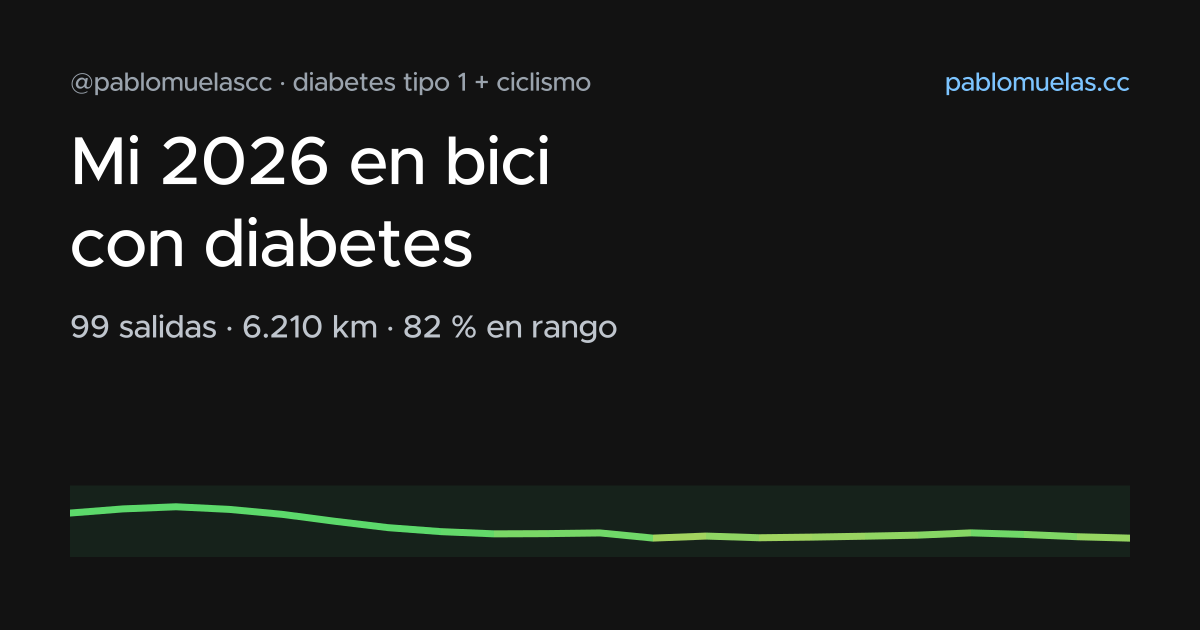
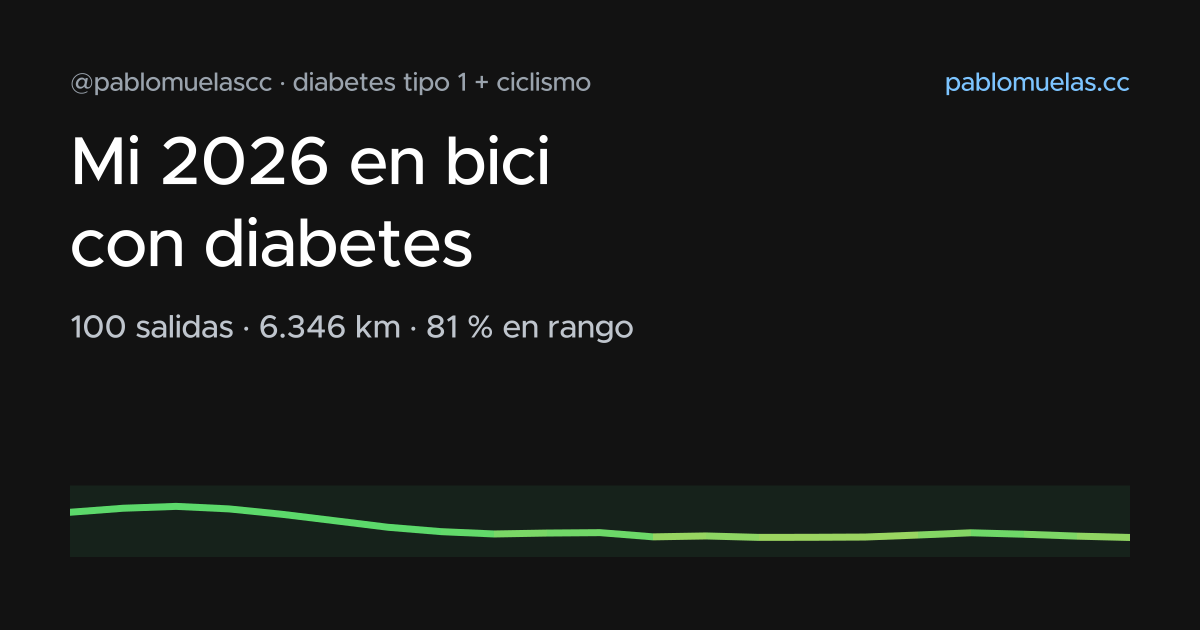
Portada: última salida y páginas (28/11/2026 13:56)

diff --git a/index.html b/index.html
@@ -217,10 +217,10 @@
 <div class="dl"><div class="k"><span class="pt"></span>En directo · rodando ahora</div><div class="v" style="color:#ffc94f">84 ↘ <small>mg/dL</small></div><div class="s">hace 4 min · llevo 0 h 02 min en bici</div><div class="av">Mi glucosa en directo: si ves que sube o baja mucho, ¡avisa a alguien! 😅</div></div>
 <!-- /auto:directo -->
 <!-- auto:ultima -->
-<div class="ul"><div class="k">Mi última salida</div><h2>Domingo 22 de noviembre</h2><div class="n"><b>77,1</b> km · <b>1.393</b> m · <b>3 h 20 min</b> · <span class="pill" style="background:#4ade80">100 % en rango</span> · media <b>129</b> mg/dL</div><svg class="ul-curva" viewBox="0 0 340 96" role="img" aria-label="Glucosa durante la salida"><rect x="4" y="35.4" width="332" height="46.2" fill="#4ade80" fill-opacity=".10"/><line x1="6.7" y1="46.7" x2="14.3" y2="39.2" stroke="#67d47a" stroke-width="3" stroke-linecap="round"/><line x1="14.3" y1="39.2" x2="22.1" y2="35.8" stroke="#a8b5d3" stroke-width="3" stroke-linecap="round"/><line x1="22.1" y1="35.8" x2="29.9" y2="39.6" stroke="#c4a7fa" stroke-width="3" stroke-linecap="round"/><line x1="29.9" y1="39.6" x2="37.5" y2="43.8" stroke="#a4b6ce" stroke-width="3" stroke-linecap="round"/><line x1="37.5" y1="43.8" x2="45.2" y2="45.5" stroke="#80c89c" stroke-width="3" stroke-linecap="round"/><line x1="45.2" y1="45.5" x2="52.8" y2="48.4" stroke="#72cf89" stroke-width="3" stroke-linecap="round"/><line x1="52.8" y1="48.4" x2="60.6" y2="51.8" stroke="#5cd96b" stroke-width="3" stroke-linecap="round"/><line x1="60.6" y1="51.8" x2="68.4" y2="55.1" stroke="#5cd96b" stroke-width="3" stroke-linecap="round"/><line x1="68.4" y1="55.1" x2="76.0" y2="58.9" stroke="#5cd96b" stroke-width="3" stroke-linecap="round"/><line x1="76.0" y1="58.9" x2="83.6" y2="60.6" stroke="#5cd96b" stroke-width="3" stroke-linecap="round"/><line x1="83.6" y1="60.6" x2="91.3" y2="63.1" stroke="#5cd96b" stroke-width="3" stroke-linecap="round"/><line x1="91.3" y1="63.1" x2="99.1" y2="66.1" stroke="#5cd96b" stroke-width="3" stroke-linecap="round"/><line x1="99.1" y1="66.1" x2="106.7" y2="69.4" stroke="#70d868" stroke-width="3" stroke-linecap="round"/><line x1="106.7" y1="69.4" x2="114.5" y2="71.9" stroke="#a4d45f" stroke-width="3" stroke-linecap="round"/><line x1="114.5" y1="71.9" x2="123.7" y2="71.9" stroke="#cbd159" stroke-width="3" stroke-linecap="round"/><line x1="123.7" y1="71.9" x2="131.4" y2="69.0" stroke="#cbd159" stroke-width="3" stroke-linecap="round"/><line x1="131.4" y1="69.0" x2="139.1" y2="63.5" stroke="#9dd460" stroke-width="3" stroke-linecap="round"/><line x1="139.1" y1="63.5" x2="146.7" y2="59.8" stroke="#5cd96b" stroke-width="3" stroke-linecap="round"/><line x1="146.7" y1="59.8" x2="154.5" y2="59.3" stroke="#5cd96b" stroke-width="3" stroke-linecap="round"/><line x1="154.5" y1="59.3" x2="162.1" y2="61.0" stroke="#5cd96b" stroke-width="3" stroke-linecap="round"/><line x1="162.1" y1="61.0" x2="169.8" y2="56.4" stroke="#5cd96b" stroke-width="3" stroke-linecap="round"/><line x1="169.8" y1="56.4" x2="177.5" y2="53.9" stroke="#5cd96b" stroke-width="3" stroke-linecap="round"/><line x1="177.5" y1="53.9" x2="185.2" y2="52.6" stroke="#5cd96b" stroke-width="3" stroke-linecap="round"/><line x1="185.2" y1="52.6" x2="192.8" y2="51.4" stroke="#5cd96b" stroke-width="3" stroke-linecap="round"/><line x1="192.8" y1="51.4" x2="200.7" y2="52.6" stroke="#5cd96b" stroke-width="3" stroke-linecap="round"/><line x1="200.7" y1="52.6" x2="208.3" y2="54.7" stroke="#5cd96b" stroke-width="3" stroke-linecap="round"/><line x1="208.3" y1="54.7" x2="216.0" y2="56.8" stroke="#5cd96b" stroke-width="3" stroke-linecap="round"/><line x1="216.0" y1="56.8" x2="223.7" y2="60.2" stroke="#5cd96b" stroke-width="3" stroke-linecap="round"/><line x1="223.7" y1="60.2" x2="231.3" y2="63.1" stroke="#5cd96b" stroke-width="3" stroke-linecap="round"/><line x1="231.3" y1="63.1" x2="240.6" y2="63.5" stroke="#5cd96b" stroke-width="3" stroke-linecap="round"/><line x1="240.6" y1="63.5" x2="248.4" y2="64.4" stroke="#5cd96b" stroke-width="3" stroke-linecap="round"/><line x1="248.4" y1="64.4" x2="256.0" y2="63.1" stroke="#5cd96b" stroke-width="3" stroke-linecap="round"/><line x1="256.0" y1="63.1" x2="263.7" y2="58.1" stroke="#5cd96b" stroke-width="3" stroke-linecap="round"/><line x1="263.7" y1="58.1" x2="271.3" y2="54.7" stroke="#5cd96b" stroke-width="3" stroke-linecap="round"/><line x1="271.3" y1="54.7" x2="279.1" y2="53.0" stroke="#5cd96b" stroke-width="3" stroke-linecap="round"/><line x1="279.1" y1="53.0" x2="286.7" y2="51.8" stroke="#5cd96b" stroke-width="3" stroke-linecap="round"/><line x1="286.7" y1="51.8" x2="294.5" y2="49.3" stroke="#5cd96b" stroke-width="3" stroke-linecap="round"/><line x1="294.5" y1="49.3" x2="302.1" y2="49.7" stroke="#5cd96b" stroke-width="3" stroke-linecap="round"/><line x1="302.1" y1="49.7" x2="309.8" y2="56.4" stroke="#5cd96b" stroke-width="3" stroke-linecap="round"/><line x1="309.8" y1="56.4" x2="317.6" y2="60.2" stroke="#5cd96b" stroke-width="3" stroke-linecap="round"/><line x1="317.6" y1="60.2" x2="325.2" y2="63.5" stroke="#5cd96b" stroke-width="3" stroke-linecap="round"/><line x1="325.2" y1="63.5" x2="336.0" y2="69.4" stroke="#5cd96b" stroke-width="3" stroke-linecap="round"/></svg><div class="ls"><a href="https://www.strava.com/activities/21082247567" target="_blank" rel="noopener">Ver en Strava ↗</a><a href="2026/">Todo mi 2026 →</a></div></div>
+<div class="ul"><div class="k">Mi última salida</div><h2>Sábado 28 de noviembre</h2><div class="n"><b>135,6</b> km · <b>650</b> m · <b>4 h 37 min</b> · <span class="pill" style="background:#f0b429">74 % en rango</span> · media <b>150</b> mg/dL</div><svg class="ul-curva" viewBox="0 0 340 96" role="img" aria-label="Glucosa durante la salida"><rect x="4" y="35.4" width="332" height="46.2" fill="#4ade80" fill-opacity=".10"/><line x1="6.1" y1="32.9" x2="13.0" y2="17.3" stroke="#c399fe" stroke-width="3" stroke-linecap="round"/><line x1="13.0" y1="17.3" x2="19.9" y2="23.2" stroke="#a551f4" stroke-width="3" stroke-linecap="round"/><line x1="19.9" y1="23.2" x2="25.6" y2="15.2" stroke="#b16bf9" stroke-width="3" stroke-linecap="round"/><line x1="25.6" y1="15.2" x2="31.3" y2="13.6" stroke="#a04bef" stroke-width="3" stroke-linecap="round"/><line x1="31.3" y1="13.6" x2="37.1" y2="10.2" stroke="#9b46eb" stroke-width="3" stroke-linecap="round"/><line x1="37.1" y1="10.2" x2="42.9" y2="11.5" stroke="#933ce2" stroke-width="3" stroke-linecap="round"/><line x1="42.9" y1="11.5" x2="48.6" y2="12.7" stroke="#963fe6" stroke-width="3" stroke-linecap="round"/><line x1="48.6" y1="12.7" x2="54.3" y2="13.1" stroke="#9943e9" stroke-width="3" stroke-linecap="round"/><line x1="54.3" y1="13.1" x2="60.0" y2="13.6" stroke="#9a44ea" stroke-width="3" stroke-linecap="round"/><line x1="60.0" y1="13.6" x2="65.9" y2="15.2" stroke="#9b46eb" stroke-width="3" stroke-linecap="round"/><line x1="65.9" y1="15.2" x2="71.6" y2="19.0" stroke="#a04bef" stroke-width="3" stroke-linecap="round"/><line x1="71.6" y1="19.0" x2="77.3" y2="20.7" stroke="#a957f7" stroke-width="3" stroke-linecap="round"/><line x1="77.3" y1="20.7" x2="83.1" y2="30.4" stroke="#ac5ff8" stroke-width="3" stroke-linecap="round"/><line x1="83.1" y1="30.4" x2="88.9" y2="35.8" stroke="#be8dfd" stroke-width="3" stroke-linecap="round"/><line x1="88.9" y1="35.8" x2="94.6" y2="38.8" stroke="#c4a7fa" stroke-width="3" stroke-linecap="round"/><line x1="94.6" y1="38.8" x2="100.3" y2="44.2" stroke="#abb3d8" stroke-width="3" stroke-linecap="round"/><line x1="100.3" y1="44.2" x2="106.1" y2="48.4" stroke="#7cc997" stroke-width="3" stroke-linecap="round"/><line x1="106.1" y1="48.4" x2="111.8" y2="54.3" stroke="#5cd96b" stroke-width="3" stroke-linecap="round"/><line x1="111.8" y1="54.3" x2="118.8" y2="64.4" stroke="#5cd96b" stroke-width="3" stroke-linecap="round"/><line x1="118.8" y1="64.4" x2="124.4" y2="67.7" stroke="#5cd96b" stroke-width="3" stroke-linecap="round"/><line x1="124.4" y1="67.7" x2="130.1" y2="68.2" stroke="#8ad663" stroke-width="3" stroke-linecap="round"/><line x1="130.1" y1="68.2" x2="137.1" y2="68.2" stroke="#90d562" stroke-width="3" stroke-linecap="round"/><line x1="137.1" y1="68.2" x2="142.8" y2="68.2" stroke="#90d562" stroke-width="3" stroke-linecap="round"/><line x1="142.8" y1="68.2" x2="148.7" y2="65.6" stroke="#90d562" stroke-width="3" stroke-linecap="round"/><line x1="148.7" y1="65.6" x2="154.4" y2="64.0" stroke="#69d869" stroke-width="3" stroke-linecap="round"/><line x1="154.4" y1="64.0" x2="160.1" y2="64.8" stroke="#5cd96b" stroke-width="3" stroke-linecap="round"/><line x1="160.1" y1="64.8" x2="167.1" y2="60.2" stroke="#5cd96b" stroke-width="3" stroke-linecap="round"/><line x1="167.1" y1="60.2" x2="172.7" y2="56.0" stroke="#5cd96b" stroke-width="3" stroke-linecap="round"/><line x1="172.7" y1="56.0" x2="183.1" y2="48.4" stroke="#5cd96b" stroke-width="3" stroke-linecap="round"/><line x1="183.1" y1="48.4" x2="188.8" y2="43.8" stroke="#5cd96b" stroke-width="3" stroke-linecap="round"/><line x1="188.8" y1="43.8" x2="196.9" y2="47.6" stroke="#80c89c" stroke-width="3" stroke-linecap="round"/><line x1="196.9" y1="47.6" x2="203.8" y2="45.5" stroke="#60d770" stroke-width="3" stroke-linecap="round"/><line x1="203.8" y1="45.5" x2="210.8" y2="49.3" stroke="#72cf89" stroke-width="3" stroke-linecap="round"/><line x1="210.8" y1="49.3" x2="219.9" y2="56.8" stroke="#5cd96b" stroke-width="3" stroke-linecap="round"/><line x1="219.9" y1="56.8" x2="225.6" y2="64.0" stroke="#5cd96b" stroke-width="3" stroke-linecap="round"/><line x1="225.6" y1="64.0" x2="231.4" y2="66.9" stroke="#5cd96b" stroke-width="3" stroke-linecap="round"/><line x1="231.4" y1="66.9" x2="238.3" y2="71.5" stroke="#7dd766" stroke-width="3" stroke-linecap="round"/><line x1="238.3" y1="71.5" x2="244.1" y2="71.1" stroke="#c4d15a" stroke-width="3" stroke-linecap="round"/><line x1="244.1" y1="71.1" x2="249.8" y2="71.1" stroke="#bed25b" stroke-width="3" stroke-linecap="round"/><line x1="249.8" y1="71.1" x2="255.5" y2="71.9" stroke="#bed25b" stroke-width="3" stroke-linecap="round"/><line x1="255.5" y1="71.9" x2="261.3" y2="67.3" stroke="#cbd159" stroke-width="3" stroke-linecap="round"/><line x1="261.3" y1="67.3" x2="267.0" y2="61.4" stroke="#83d665" stroke-width="3" stroke-linecap="round"/><line x1="267.0" y1="61.4" x2="272.8" y2="57.7" stroke="#5cd96b" stroke-width="3" stroke-linecap="round"/><line x1="272.8" y1="57.7" x2="278.5" y2="54.7" stroke="#5cd96b" stroke-width="3" stroke-linecap="round"/><line x1="278.5" y1="54.7" x2="284.3" y2="53.0" stroke="#5cd96b" stroke-width="3" stroke-linecap="round"/><line x1="284.3" y1="53.0" x2="290.0" y2="51.8" stroke="#5cd96b" stroke-width="3" stroke-linecap="round"/><line x1="290.0" y1="51.8" x2="295.7" y2="50.9" stroke="#5cd96b" stroke-width="3" stroke-linecap="round"/><line x1="295.7" y1="50.9" x2="301.5" y2="51.4" stroke="#5cd96b" stroke-width="3" stroke-linecap="round"/><line x1="301.5" y1="51.4" x2="307.3" y2="53.5" stroke="#5cd96b" stroke-width="3" stroke-linecap="round"/><line x1="307.3" y1="53.5" x2="313.0" y2="55.6" stroke="#5cd96b" stroke-width="3" stroke-linecap="round"/><line x1="313.0" y1="55.6" x2="318.7" y2="58.1" stroke="#5cd96b" stroke-width="3" stroke-linecap="round"/><line x1="318.7" y1="58.1" x2="324.4" y2="61.9" stroke="#5cd96b" stroke-width="3" stroke-linecap="round"/><line x1="324.4" y1="61.9" x2="330.3" y2="64.4" stroke="#5cd96b" stroke-width="3" stroke-linecap="round"/><line x1="330.3" y1="64.4" x2="336.0" y2="66.5" stroke="#5cd96b" stroke-width="3" stroke-linecap="round"/></svg><div class="ls"><a href="https://www.strava.com/activities/21153486307" target="_blank" rel="noopener">Ver en Strava ↗</a><a href="2026/">Todo mi 2026 →</a></div></div>
 <!-- /auto:ultima -->
 <!-- auto:paginas -->
-<p class="sec">Mis páginas</p><div class="pags"><a class="pag" href="2026/" style="--c:#3b82f6"><img src="img/pag-todo.jpg" alt="" loading="lazy"><div><b>Mi 2026 en bici</b><span>Todas mis salidas con mi glucosa: mapa por mes y récords</span><em>99 salidas · 6.210 km · 82 % en rango</em></div><strong>Ver mis salidas →</strong></a><a class="pag" href="glucosa-gps/" style="--c:#1f9d55"><img src="img/pag-gps.jpg" alt="" loading="lazy"><div><b>¿Cómo veo mi glucosa en el GPS o en el reloj?</b><span>Elige tu sensor y tu equipo y te digo cómo</span><em>Garmin, Karoo, Wahoo, Apple Watch, Amazfit…</em></div><strong>Buscar mi GPS o reloj →</strong></a><a class="pag" href="preguntas/" style="--c:#a855f7"><img src="img/pag-comer.jpg" alt="" loading="lazy"><div><b>Lo que más me preguntáis</b><span>El sensor, el Garmin, qué como en ruta…</span><em>19 preguntas con respuesta</em></div><strong>Leer las preguntas →</strong></a></div>
+<p class="sec">Mis páginas</p><div class="pags"><a class="pag" href="2026/" style="--c:#3b82f6"><img src="img/pag-todo.jpg" alt="" loading="lazy"><div><b>Mi 2026 en bici</b><span>Todas mis salidas con mi glucosa: mapa por mes y récords</span><em>100 salidas · 6.346 km · 81 % en rango</em></div><strong>Ver mis salidas →</strong></a><a class="pag" href="glucosa-gps/" style="--c:#1f9d55"><img src="img/pag-gps.jpg" alt="" loading="lazy"><div><b>¿Cómo veo mi glucosa en el GPS o en el reloj?</b><span>Elige tu sensor y tu equipo y te digo cómo</span><em>Garmin, Karoo, Wahoo, Apple Watch, Amazfit…</em></div><strong>Buscar mi GPS o reloj →</strong></a><a class="pag" href="preguntas/" style="--c:#a855f7"><img src="img/pag-comer.jpg" alt="" loading="lazy"><div><b>Lo que más me preguntáis</b><span>El sensor, el Garmin, qué como en ruta…</span><em>19 preguntas con respuesta</em></div><strong>Leer las preguntas →</strong></a></div>
 <!-- /auto:paginas -->
 
         <!-- Enlace a Strava -->
